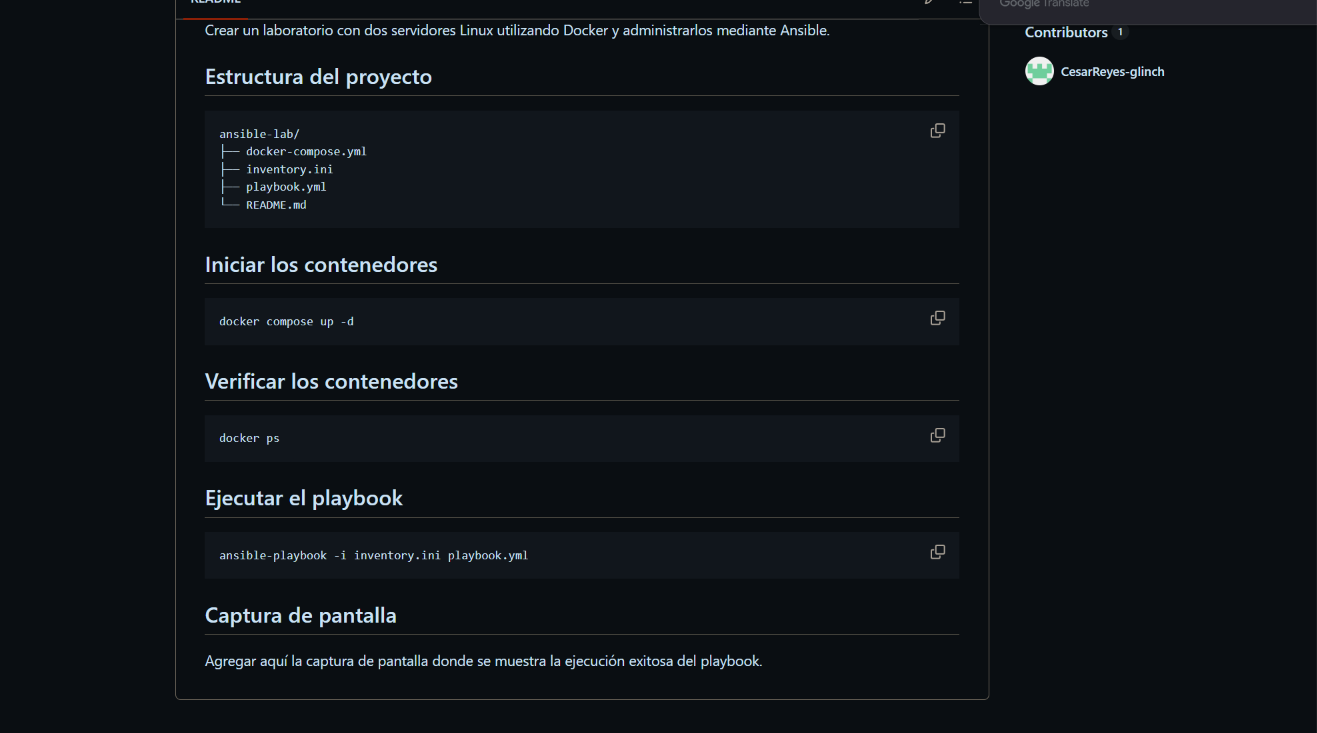
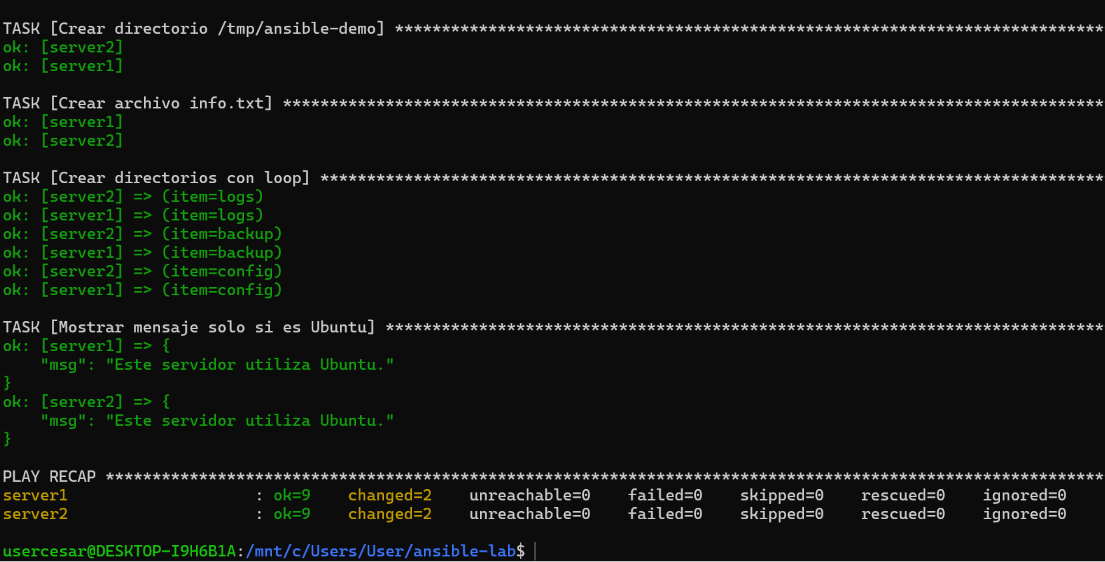
Actualizar captura correcta

diff --git a/README.md b/README.md
@@ -33,5 +33,5 @@ ansible-playbook -i inventory.ini playbook.yml
 ```
 
 ## Captura de pantalla
-
 ![Ejecución exitosa del playbook](image.png)
+